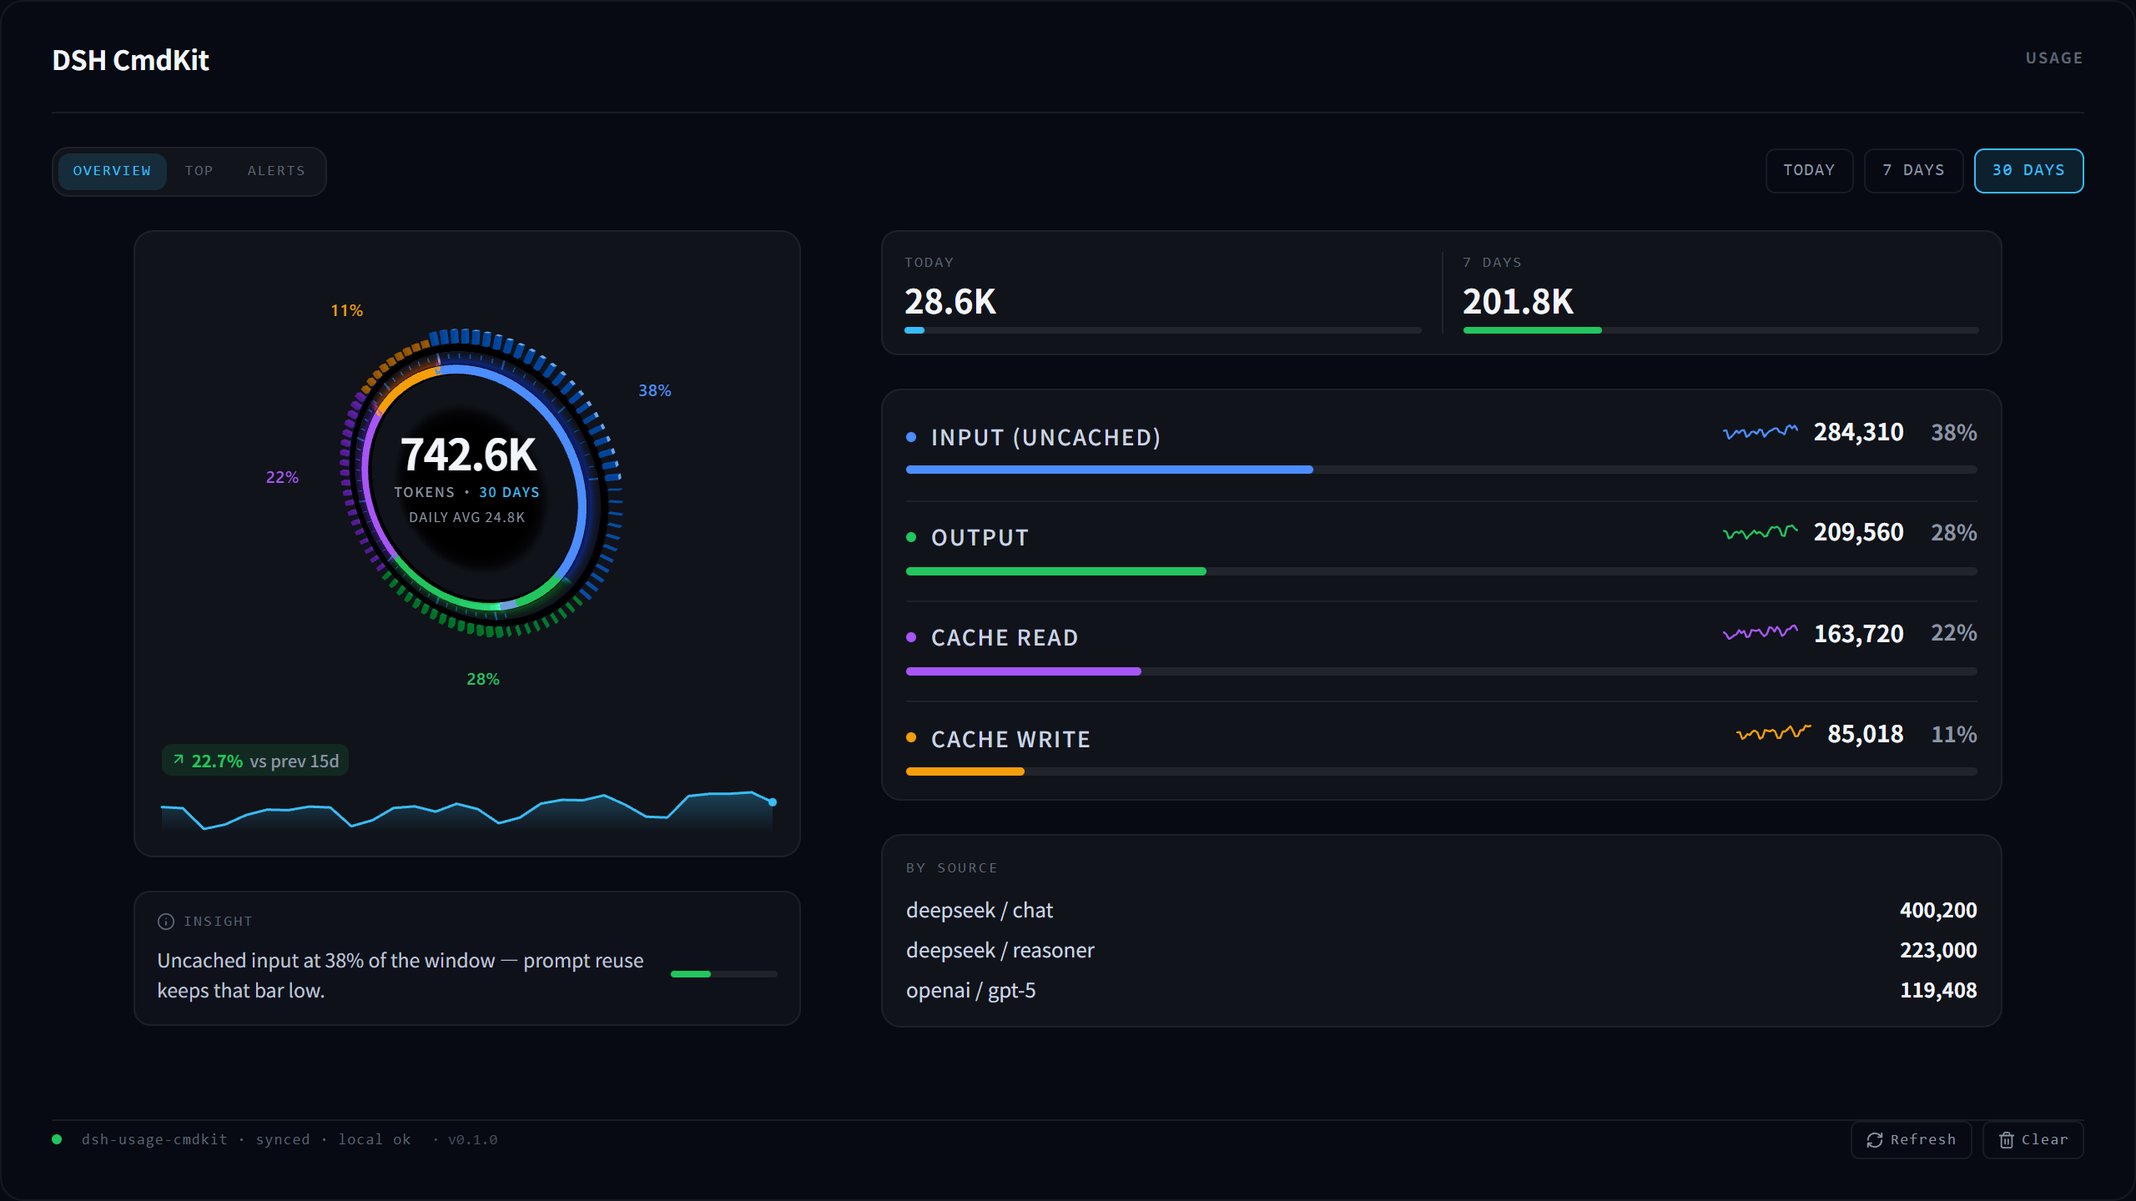
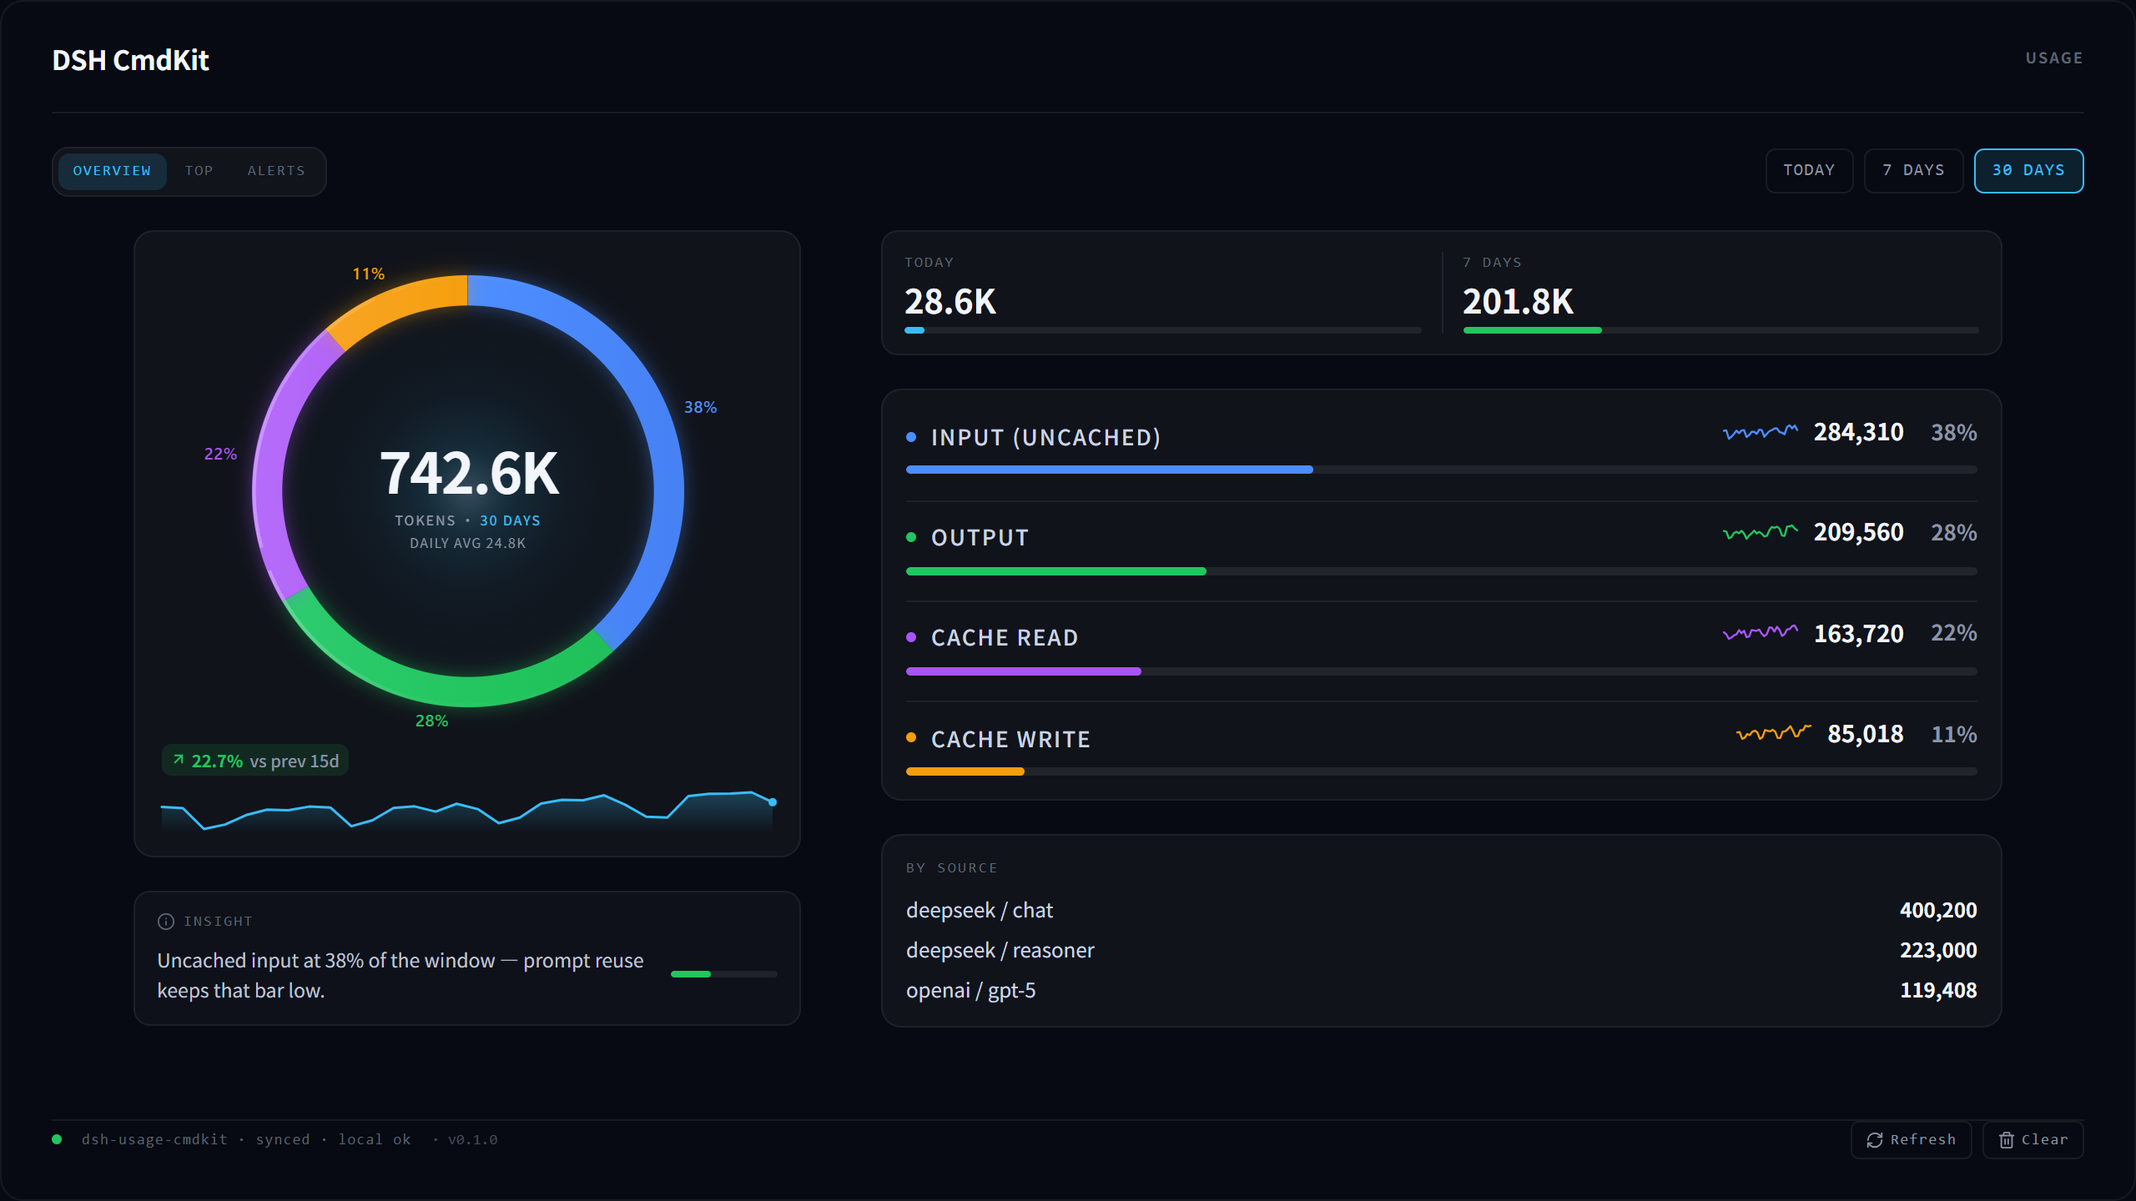
docs(design): 同步拿掉 3D 之后的成图与文档口径
- 宽版 1280×720 与竖屏 360×800 成图重出（真实组件渲染，CDP + 真实时钟 2.6s）
- README / motion-spec / v6-preview / v6-visual-direction / src README 去 3D 表述
- motion-spec 的「主环」一节改写成扁平弧环，并补上为什么不做 3D
- Figma 整帧不再需要位图：环是纯 SVG，PREVIEW_SVG=1 导出后一次 import_svg 进去
- 记下一处待定：宽版主环是四色弧加外发光，正压在 v6 §6「霓虹多色大环、四段彩虹环」
  那条线上，与窄栏的单色命中率表盘也不是同一套配色语言，三条出路写在 §9.5

Changed region(s): [[0.0938, 0.2188, 0.3438, 0.5938]]

diff --git a/design/motion-spec.md b/design/motion-spec.md
@@ -1,7 +1,7 @@
 # DSH CmdKit 动效说明
 
 **适用对象**：Usage 侧栏（右栏的一个 Tab）
-**对应设计稿**：`design/` 下的预览图（`dsh-cmdkit-v6-360x800.png`、`dsh-cmdkit-v6-1280x720.png`）与 3D 环渲染（`dsh-cmdkit-ring-3d.png`）
+**对应设计稿**：`design/` 下的预览图（`dsh-cmdkit-v6-360x800.png`、`dsh-cmdkit-v6-1280x720.png`）
 **气质**：克制科幻 HUD · 流畅短促 · 可读优先
 **用途**：设计出图、动效制作、代码实现的共同基准
 
@@ -14,10 +14,9 @@
 ## 0. 总原则
 
 1. **一次编排，之后静止**。首次进入做一轮完整入场编排；此后界面基本静止，不循环跑动画。
-2. **静止期只允许三处微动**：
+2. **静止期只允许两处微动**：
    - 环心外柔光极慢呼吸（周期 3–5s，亮度变化不超过 ±5%）
    - 底部状态点的 `synced` 指示极慢闪烁（周期 ≥2s）或直接常亮
-   - 3D 环的**空闲慢自转**（环体绕自身轴 0.07 rad/s，约 90s 转一圈）——见 §2.3
 3. **可读优先**。任何动画不得让读数在运动中无法辨认；数字滚动、进度条生长都必须停在清晰可读的终值上。
 4. **动效只服务于两件事**：告诉用户「东西从哪来」，以及「你刚才那一下生效了」。
 
@@ -106,107 +105,56 @@
 
 ---
 
-## 2.3 3D 环（轨道矩阵）
+## 2.3 主环（扁平弧环）
 
-主环从 2D SVG 换成 **3D 轨道矩阵**（three.js）。从外到内是一条完整的仪表带：
+主环是**扁平弧环**（纯 SVG，不是 3D）：一条极淡底环 + 四段有间隙的色弧，
+弧自带顶光玻璃渐变与外发光，环心一枚柔和能量核。
 
 | 层 | 内容 |
 |----|------|
-| 鳍片环 | 84 根径向鳍片，高度按桶占比起伏，顶边按桶色发光（像频谱仪 / 散热鳍片） |
-| 底轨 | 暗金属扁环 + 一道菲涅尔轮廓光，勾住整圈 |
-| 刻度环 | 72 格刻度，每 6 格一根长标记 |
-| 数据轨 | 暗金属凹槽 + 四色数据扁带（不受光，桶色原样）+ 弧外侧一圈径向淡出的加法辉光壳 + 一个跑动的读取头（亮弧带递减拖尾） |
-| 环心 | 空的，读数用普通 DOM 文字叠在上面 |
+| 底环 | 极淡白弧（`rgba(255,255,255,.06)`），缺口也留轨道，进度才读得出来 |
+| 能量核 | 两层柔光球，不做实心球 |
+| 四段色弧 | 玻璃渐变（顶光提亮 → 基色 → 底部压暗）+ 镜面高光（贴着环带外缘，只在上半圈） |
+| 环心 | 总览数字 + 中性说明 + 强调窗口，三行叠在弧上 |
 
-**图是 3D 的，数字与标签是普通 DOM 文字**——读数不随透视变形。
+### 为什么不做 3D
 
-### 美术方向（这一版推翻过三次，记在这儿免得走回头路）
+3D 轨道矩阵（three.js 场景）做过一版，也挂在 v5 的宽面板上过一版。这一轮拿掉了：
 
-- **不用连续发光管承载数据**。那是霓虹灯管，不是科幻仪表。
-  数据弧是**一条扁带**，颜色原样输出。
-- **大片暗、极少高能**。结构件比数据暗；金属只靠环境贴图拉出一道窄高光，
-  别把整圈打成白银镯。
-- **桶色必须原样**。数据弧用**不受光**的基础材质（`toneMapped: false`），
-  四个桶的色值就是 `#4c8dff / #22c55e / #a855f7 / #f59e0b`，一眼对得上。
-  一旦走 PBR + 高自发光，ACES 会把高饱和色推向白（蓝变青白、绿变荧光绿），
-  四个桶就分不清了。
-- **辉光只用可控的加法壳**，不用后期 bloom。加法壳沿截面从内缘往外淡出，
-  所以它是「光溢出来」，而不是一条实心浅色带；壳与实体弧**零重叠**
-  （壳占 0.895–0.983，弧占 0.83–0.89），重叠了加法混合会把桶色洗白。
-- **为什么没有后期合成器**：用 `EffectComposer` 时场景渲进 render target，
-  three 会**禁用材质级 tone mapping**，ACES 改由 `OutputPass` 对整帧施加一次——
-  材质上的 `toneMapped: false` 就此失效，桶色照样被推浅。
-  直接 `renderer.render()` 之后 tone mapping 回到材质级，桶色才拿得回来；
-  顺带也省掉了 bloom 那套全屏模糊。
+- **透视没法转矢量**：设计稿里只能放位图，稿子与实现不同源。
+- **窄栏上既占地方又吵**：360 宽的竖屏里一枚 3D 环放不下。
+- **代价太大**：three.js 整包 510KB，要么进首屏（首屏 +500KB），
+  要么拆按需分片（多一套宿主机制 + 一个 550KB 产物）。
 
-### 读数放得下（3D 的洞比平面环小得多）
-
-- 3D 环的「洞」是**弧的内沿**（轨道半径 0.83 处），不是环心暗盘。投影后洞只有
-  画布的 **0.39 倍宽**，环心暗盘更只有 0.29 倍——按暗盘去排读数会直接压到弧上。
-- 平面环不用收口：它的暗盘外沿离弧还有 0.24 倍画布，数字压出暗盘也碰不到弧。
-- 3D 环心大数字因此收口到 **0.10 × 画布**（六位数约 0.35 倍宽，扣掉字形高度
-  仍留得住边）。实测：画布 220 → 22px、320 → 32px、200 → 20px、190 → 19px。
-- 环外百分比标签同理收：标签挂在轨道半径 1.3 处，投影后落在画布的 0.45 倍处，
-  已经贴着画布边，所以标签要放在环**外面**（`overflow: visible`），
-  并且按 `max(10px, 画布 × 0.03)` 定字号——小环上 10px 是下限，不是按比例缩。
+现在宽面板用扁平环放大到 259px 画布——四段桶色弧（蓝→绿→紫→橙）+ 环外柔光。
+注意配色与窄栏**不共享**：窄栏右侧的命中率表盘是单色青弧、无发光。
+这条取舍（以及与 §6 的张力）记在 `design/v6-visual-direction.md` §9.5。
 
 ### 入场
 
 | 时间 | 变化 |
 |------|------|
-| 0.00s | 整环从内侧撑开（缩放 0.92→1.00，460ms，缓出） |
-| 0.00s 起 | 四段数据弧按桶依次从 0 生长到目标弧长（错开 55ms，单段 460ms，缓出） |
-| 0.00s 起 | 鳍片按桶错开从底轨长出来，高度随占比定 |
-| 0.46s | 环心大数字 0 递增到目标总量（440ms，缓出，与 SVG 环同拍） |
-| 0.46s 起 | 读取头开始绕数据轨跑（0.42 rad/s，从环自己的起点算起） |
-
-> **入场结束必须显式落一次终态**（弧长与鳍片直接写成目标值）。
-> 入场期间弧长是按时间推进的，但「推进」只发生在入场的那几帧里：
-> 帧率一掉（软件渲染、后台标签页、机器卡顿），入场的最后一帧可能停在 200ms，
-> 四段弧就永远只长了一半——数据看着像被截短。
-> 所以入场结束后必须再落一次终态，且只落一次。
+| 0.00s | 底环淡入（140ms，缓出） |
+| 0.00s 起 | 四段色弧按蓝→绿→紫→橙依次描边生长（错开，单段 180–360ms，缓出） |
+| 0.46s | 环心大数字 0 递增到目标总量（440ms，缓出） |
 
 ### 静止期
 
-- 环体绕自身轴**慢自转** 0.07 rad/s（约 90s 一圈）——慢到不抢眼，快到看得出是活的。
-- 读取头常驻运行，是这一圈里唯一持续动的东西。
-- 鳍片的高度与颜色**跟着数据走**：切时间窗时占比变了，鳍片高度与分色边界一起变。
+- 四段色弧静止，只有环外柔光以 **4s 周期极慢呼吸**（亮度 ±5%）——唯一的常驻动画。
+- 切时间窗时弧长平滑插值（380ms），**不重播**入场。
 
-### 细节随尺寸自适应
+### 尺寸
 
-环的直径在 190–300px 之间（见 `UsageWide` 的 `ringSize`），同一套细节在两端都不成立：
-小环上 84 根鳍片挤成每根两三个像素，远看就是一片噪点。
-
-| 画布边长 | 鳍片 | 刻度 |
-|----------|------|------|
-| ≥280px | 84 根（最细） | 72 格 |
-| ≥230px | 64 根 | 56 格 |
-| ≥190px | 48 根（加宽） | 40 格 |
-| <190px | 32 根（最宽） | 不画 |
-
-### 帧率预算（硬约束）
-
-| 阶段 | 帧率 | 说明 |
-|------|------|------|
-| 入场 / 弧长插值 | 满帧 | 只有这两段需要逐帧 |
-| 空闲自转 | **20fps** 步进 | 慢自转要看得见，但不值得烧 60fps |
-| 面板不可见 / 标签页切走 | 0 | 整帧跳过 |
-
-> 跳过的帧连场景更新都省掉——门槛放在更新之前。
-> 整帧 22–30 次 draw call，不随时间增长。
-> 实测（headless Chrome / SwiftShader）：空闲 19 帧/秒，插值期间 36 帧/秒。
+环的直径在 190–300px 之间（见 `UsageWide` 的 `ringSize`），
+读数排版全部按**画布比例**给（`UsageRing.tsx` 的 `READOUT`），
+所以环缩小时文字与环的关系保持一致。
 
 ### 降级
 
-| 情况 | 表现 |
-|------|------|
-| 拿不到 WebGL（虚拟机 / 远程桌面 / 禁硬件加速） | 直接用 2D SVG 环，功能一条不少 |
-| 分片加载失败 / three 建场失败 | 同上，并在控制台留一条告警 |
-| 运行中 `webglcontextlost` | 立刻切回 SVG 环；上下文恢复后自动切回 3D |
+没有了——SVG 环不依赖 WebGL，没有分片，也没有上下文丢失。
 
-> 3D 环与 SVG 环的角度约定必须一致：共享几何是「十二点方向起、顺时针铺开」，
-> three 的 XY 平面 y 朝上、角度逆时针为正，所以 3D 侧要做一次翻转（`局部角 = -共享角`）。
-> **不翻的话降级时构图是镜像的，画面会跳。**
+---
+
 
 ---
 
@@ -275,8 +223,7 @@
 | 静帧 | 对应编排 | 定格标注 |
 |------|----------|----------|
 | `dsh-cmdkit-v6-360x800.png` | 竖屏（360×800） | 入场 1.0s 后定格 |
-| `dsh-cmdkit-v6-1280x720.png` | 宽版（1280×720，3D 轨道矩阵） | 入场 1.15s 后定格 |
-| `dsh-cmdkit-ring-3d.png` | 3D 轨道矩阵主环（1024×1024 透明底） | 静止，不自转 |
+| `dsh-cmdkit-v6-1280x720.png` | 宽版（1280×720） | 入场 1.15s 后定格 |
 
 ---
 

diff --git a/design/v6-visual-direction.md b/design/v6-visual-direction.md
@@ -166,6 +166,9 @@
 - ❌ 每一块都带装饰性插画
 - ❌ 四个以上强调色
 
+> 落地现状：窄栏（360×800）没有触线；**宽版主环目前正压在这条线上**（四色弧 + bloom），
+> 取舍与三条出路见 §9.5。
+
 ---
 
 ## 7. Figma 作业顺序
@@ -177,9 +180,10 @@
 5. 旁边再出**宽版 1280×720** 一版（宽版仍是 3D 轨道矩阵，但卡片/标签语言要和竖屏统一）。
    > **已完成**：宽版成图 `design/dsh-cmdkit-v6-1280x720.png`，
    > Figma 帧 `v6 · 宽版 1280×720（实现对照）`。
-   > 3D 轨道矩阵留着，卡片与标签换成了竖屏那一套——
-   > 分段控件、描边药丸、两枚 StatTile、带微折线的分类列表、三层洞察卡、绿点底栏，
-   > 满屏网格与发光规则线删干净。实现是独立组件 `src/client/UsageWide.tsx`。
+   > 卡片与标签换成了竖屏那一套——分段控件、描边药丸、两枚 StatTile、
+   > 带微折线的分类列表、三层洞察卡、绿点底栏，满屏网格与发光规则线删干净。
+   > 实现是独立组件 `src/client/UsageWide.tsx`。
+   > **补记**：后来连 3D 轨道矩阵也拿掉了，宽版主视觉换成大号扁平环，见 §9.5。
 6. **验收**：出图后必须用真实组件渲染一张对照图，逐块比。
    规矩见 `design/v6-preview.md`「这两张图是真实组件渲染的」——
    `design/_v6_src/render-preview.mjs` 走 CDP + 真实时钟，不许用静态稿糊弄。
@@ -195,7 +199,7 @@
 |---|---|
 | `src/client/usage-theme.ts` | 色 / 间距 / 圆角常量（单一事实来源） |
 | `src/client/UsageCompact.tsx` | 竖屏构图 |
-| `src/client/UsageWide.tsx` | 宽版构图（3D 环 + 两列卡片） |
+| `src/client/UsageWide.tsx` | 宽版构图（大号扁平环 + 两列卡片） |
 | `src/client/usage-metrics.ts` | 折线序列与涨跌签的算法（窄宽共用） |
 | `design/v6-preview.md` | 逐块对照表 + 预览成图 + **实现偏差** |
 
@@ -247,11 +251,6 @@
 - **`text-transform: uppercase` 是 CSS 算出来的效果，DOM 里存的是原文**：
   不在导出的几何里带上 `textTransform`、也不在拼 SVG 时补 `toUpperCase()`，
   Figma 那边就是「Input (uncached)」而不是「INPUT (UNCACHED)」。
-- **3D 环只能进 Figma 当位图**（透视没法转矢量）。
-  用 `canvas.toDataURL()` 取透明底的 canvas 层，
-  **必须挂进 `requestAnimationFrame`**——排在 three 的渲染回调之后、合成之前，
-  才拿得到刚画完的那一帧（`preserveDrawingBuffer` 没开，晚一帧读回来是空的）。
-  环心的字与环外的百分比标签是 DOM 覆盖层，**留在矢量层里当可编辑文本**。
 
 ### 9.4 宽版这一轮（1280×720）
 
@@ -268,5 +267,28 @@
 - **旧稿该清就清**：Figma 上 v5 的宽版双栏、金融竖屏、400×520 / 720×420 三张旧稿
   与它们所在的旧页一并删掉；仓库里 v5 的成图与预览说明也删掉，
   引用它们的 README 与 `motion-spec.md` 同步改指 v6。
-  3D 轨道矩阵的**几何说明页**留着——宽版还在用它。
 
+### 9.5 拿掉 3D（2026-10-21 补记）
+
+- **3D 轨道矩阵整个拿掉了**：`usage-3d.ts`（three.js 场景）、`UsageRing3D.tsx`、
+  `scripts/render-design-ring.mjs` 与那 6 张环渲染资产全部删除，
+  `three` / `@types/three` 也不再是依赖——浏览器半回到**一个产物**（≈39 KB）。
+- **理由不是「不好」，是代价大于收益**：
+  透视没法转矢量，设计稿里只能放位图，稿子与实现就不同源了；
+  510KB 的 three.js 要么进首屏（首屏 +500KB），要么拆按需分片（多一套宿主机制）；
+  而窄栏里一枚 3D 环既占地方又吵。
+- **宽版改用扁平环放大**（`UsageRing.tsx`，259×259）。
+  共享的是「弧 + 环心读数」这套**构件**语言——**配色与发光并不共享**：
+  宽版是四段桶色弧（蓝→绿→紫→橙）带外发光，
+  窄栏右侧的命中率表盘是**单色**青弧、无发光。
+  顺带把 `UsageRing` 的 `variant` 机制也拆了——
+  只剩一个调用方，两套形态参数留着就是死代码。
+- **待定：宽版主环与 §6 的张力**。§6 明确不要「霓虹多色大环、四段彩虹环」，
+  而宽版现在这枚 259px 的四色环 + bloom 正好落在那条线上（窄栏没有这个问题）。
+  要压有三条路：
+  ① 四色保留，**只压掉 bloom**（彩虹感主要来自四色分段而不是光）；
+  ② 改成**单色强调弧**（与窄栏表盘真正同语言，环心保留总览数）；
+  ③ 整个换成窄栏那种**命中率表盘**放大（主视觉让位给命中率，放弃四桶分段）。
+  这条等用户拍板，不在「清理 3D」这一轮里定。
+- **好处在设计稿这边**：环是纯 SVG，`PREVIEW_SVG=1` 直接导出，
+  整帧 SVG 一次 `import_svg` 进去，**再没有位图**。

diff --git a/src/client/README.md b/src/client/README.md
@@ -10,13 +10,11 @@
 |------|------|
 | `index.ts` | 浏览器半入口：注册 locale 字典、右栏 tab 类型与两个 seat |
 | `UsageDashboard.tsx` | 用量面板的调度层：量面板宽度、选布局、传参（本身不画版面） |
-| `UsageWide.tsx` | 宽版（≥900px）：3D 轨道矩阵 + 两列卡片（`UsageWideView`） |
+| `UsageWide.tsx` | 宽版（≥900px）：大号扁平环 + 两列卡片（`UsageWideView`） |
 | `UsageCompact.tsx` | 窄版（<900px）：竖屏构图（`UsageCompactView`） |
 | `UsageChrome.tsx` | 外框件：品牌头、分段控件、时间窗、洞察卡、底栏 |
 | `UsageMeters.tsx` | 计量件：指标块、涨跌签、折线、表盘、分段控件 |
-| `UsageRing.tsx` | 主环：四段弧、环心总览、环外图例 |
-| `UsageRing3D.tsx` | 3D 环宿主：canvas + DOM 读数覆盖层 + 降级到 SVG 环 |
-| `usage-3d.ts` | three.js 场景：鳍片环、底轨、刻度、数据轨、读取头 |
+| `UsageRing.tsx` | 主环：四段弧、环心总览、环外百分比 |
 | `UsageTelemetry.tsx` | 四行遥测列表：名字与数量中性色，条形用品类色 |
 | `usage-theme.ts` | 设计令牌：近黑底、单一强调色、四个品类的玻璃渐变 |
 | `usage-buttons.ts` | 底栏 ghost 按钮样式（预览与实现共用同一份） |
@@ -33,7 +31,7 @@
 面板自带深色表面，不依赖宿主明暗主题。
 
 布局由面板**实测宽度**决定（`ResizeObserver` 量面板自己）：
-宽到 900px 以上用左环右数据的 3D 轨道矩阵版，
+宽到 900px 以上用左环右数据的大环版，
 不到 900px 用竖屏那一版（大数 + 表盘 + 指标块 + 分类列表）。
 
 不看 `useTabInfo().sidebar.fullscreen`：那个标志只说明「面板盖住了整块视口」，
